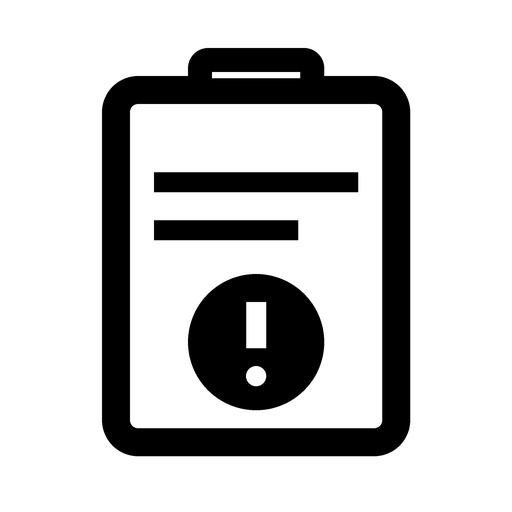
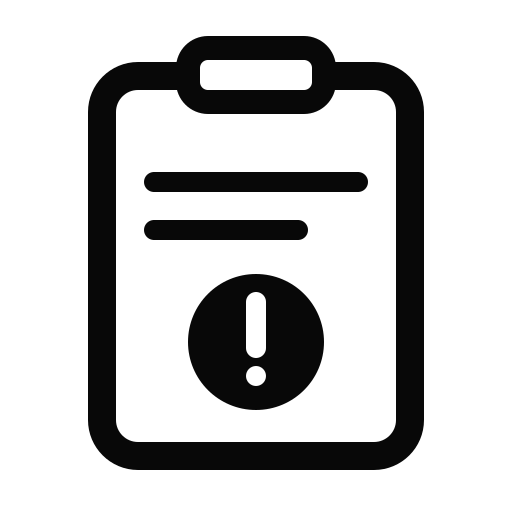
Add files via upload

diff --git a/index.html b/index.html
@@ -14,9 +14,9 @@
     <meta name="apple-mobile-web-app-title" content="Serwis Lokali">
 
     <title>Serwis Lokali · Zgłoszenia usterek</title>
-    <link rel="manifest" href="./manifest.json?v=11">
-    <link rel="icon" type="image/svg+xml" href="./app-icon.svg?v=11">
-    <link rel="apple-touch-icon" href="./icon-192.png?v=11">
+    <link rel="manifest" href="./manifest.json?v=12">
+    <link rel="icon" type="image/svg+xml" href="./app-icon.svg?v=12">
+    <link rel="apple-touch-icon" href="./icon-192.png?v=12">
     <link rel="stylesheet" href="./styles.css?v=4">
   </head>
 
